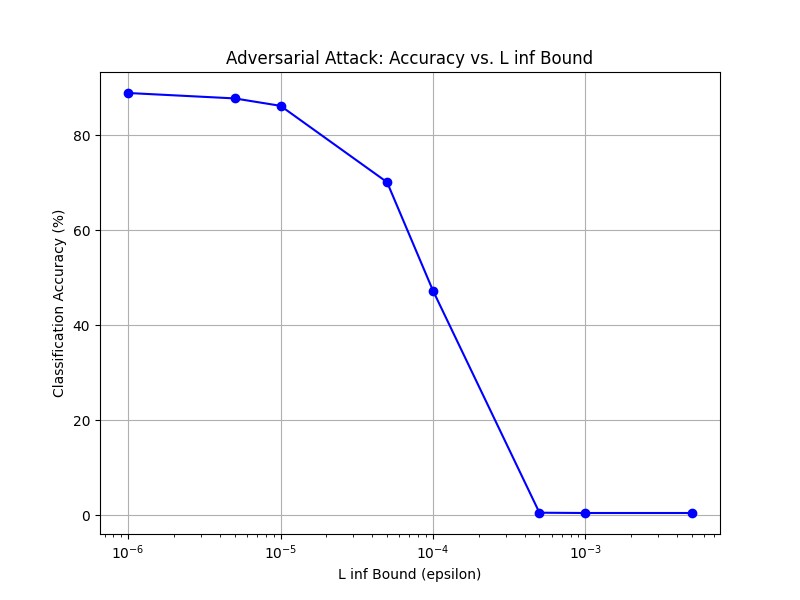
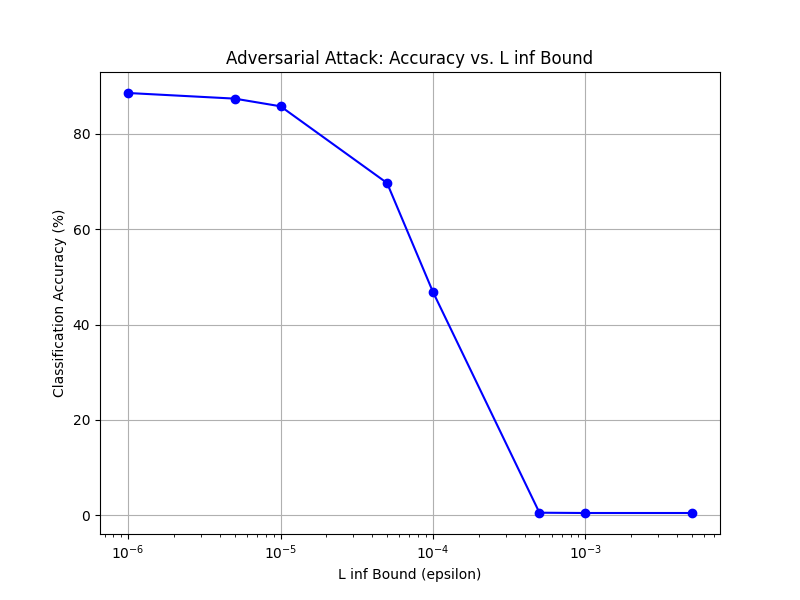
decrease eps to 1e-9 and update attack plots

diff --git a/attack.py b/attack.py
@@ -61,7 +61,7 @@ def attack_classifier(model, loader, criterion, linf_bound, num_pgd_steps=10, lr
             optimizer.step()
             
             # TODO (4): Apply L inf norm bound projection, use 'torch.clamp' to ensure perturbations are within bounds
-            perts.data = torch.clamp(perts.data, -linf_bound + 1e-6, linf_bound - 1e-6)
+            perts.data = torch.clamp(perts.data, -linf_bound + 1e-9, linf_bound - 1e-9)
 
             assert perts.abs().max().item() <= linf_bound  # If this assert fails, you have a mistake in TODO(4) 
 
